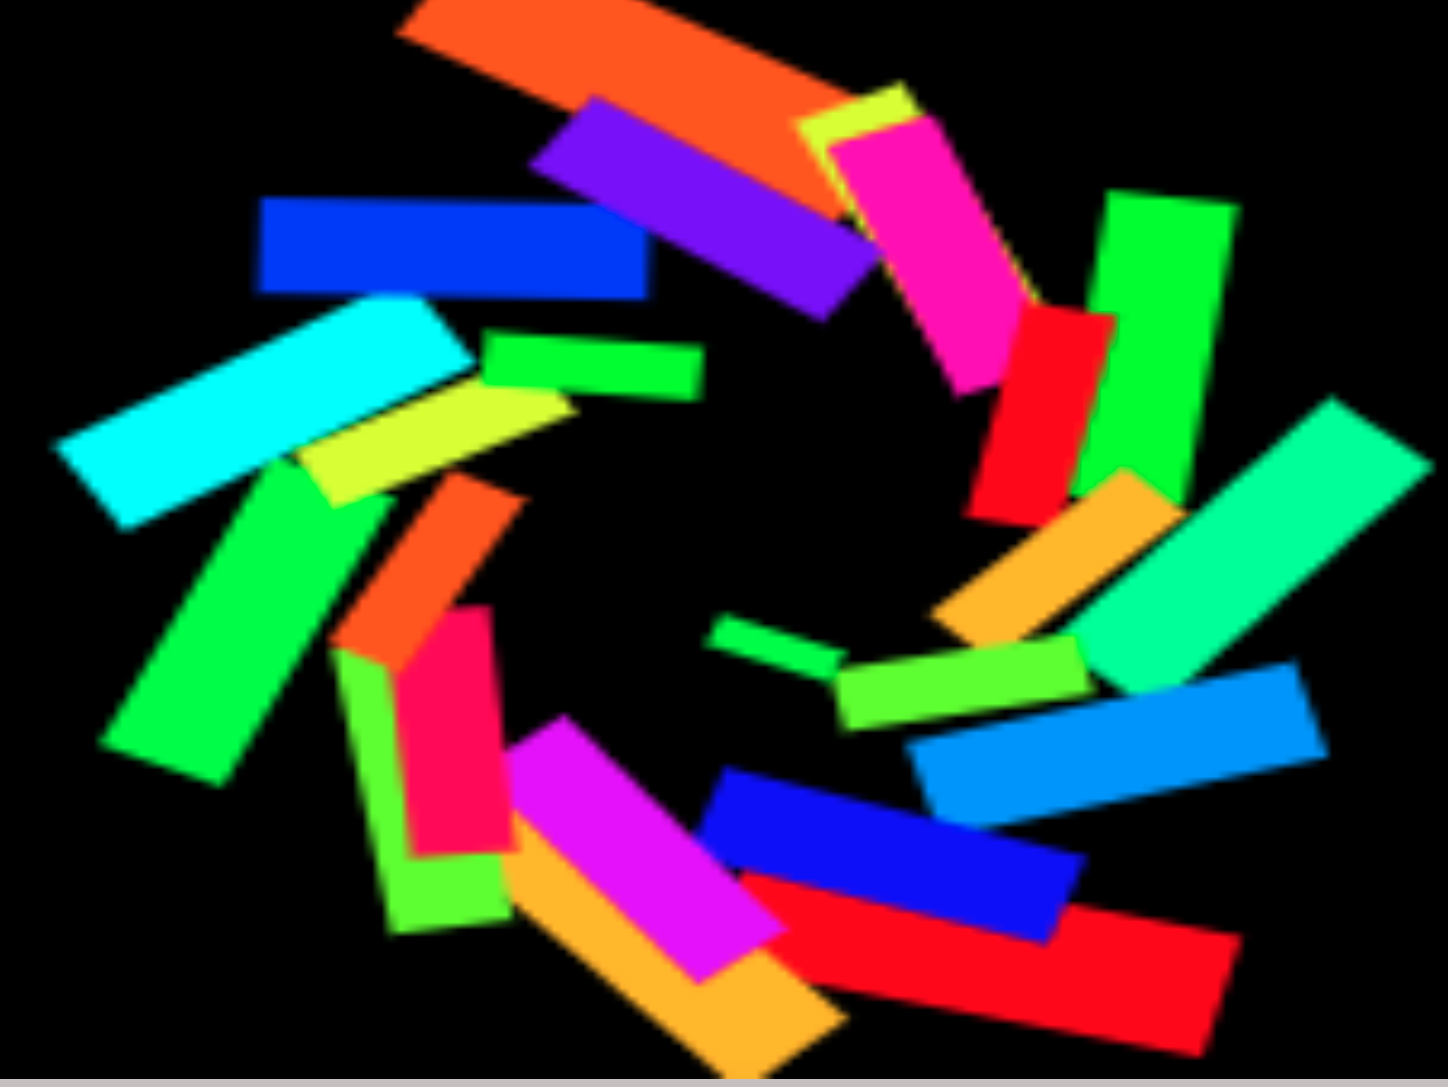
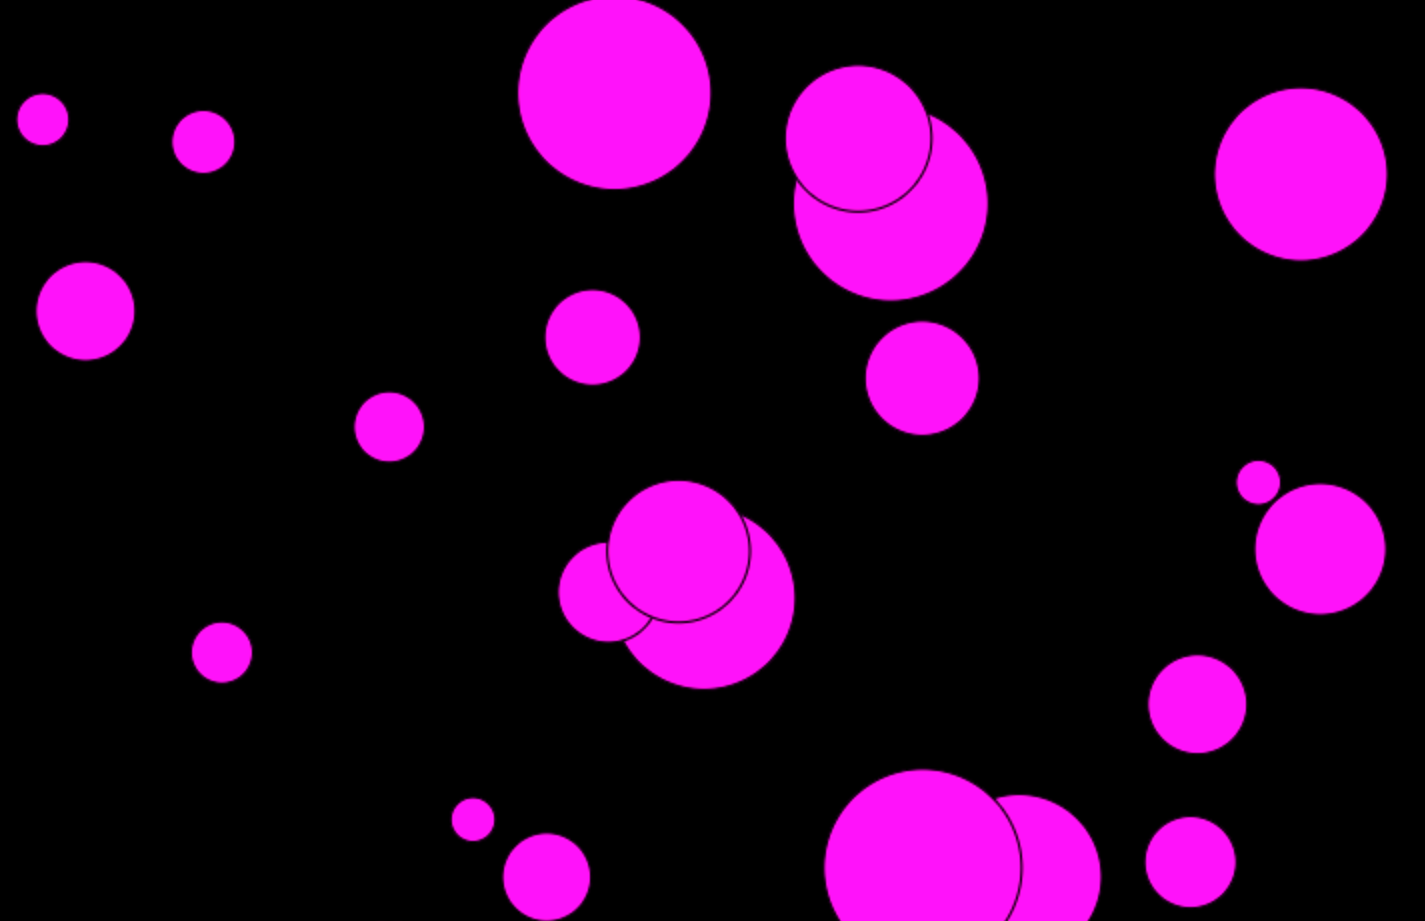
bubble-2

diff --git a/src/coding/bb.js b/src/coding/bb.js
@@ -1,32 +1,66 @@
+// You can personize your tank bubbles by setting the values below
+const settings = {
+  radius: 10,
+  radiusAdd: 40,
+  bubbleNumber: 50,
+  color: 300,
+  velocity: 1,
+}
+// END HERE
+
 const canvas = document.getElementById("cnvs")
 canvas.width = window.innerWidth
 canvas.height = window.innerHeight
-
 const ctx = canvas.getContext("2d")
-ctx.fillStyle = "blue"
+
+ctx.strokeStyle = "black"
 
 class Particle {
   constructor(effect) {
     this.effect = effect
-    this.x = Math.random() * this.effect.width
-    this.y = Math.random() * this.effect.height
-    this.radius = 15
+    this.radius = Math.random() * this.effect.radiusAdd + this.effect.radius
+    this.x = this.radius + Math.random() * (this.effect.width - this.radius * 2)
+    this.y =
+      this.radius + Math.random() * (this.effect.height - this.radius * 2)
+    this.vx = Math.random() * this.effect.velocity
+    this.vy = Math.random() * this.effect.velocity
   }
 
   draw(context) {
+    context.fillStyle = "hsl(" + (this.effect.color % 360) + ",100%,50%)"
+
     context.beginPath()
     context.arc(this.x, this.y, this.radius, 0, Math.PI * 2)
     context.fill()
+    context.stroke()
+  }
+
+  update() {
+    this.x += this.vx
+    if (this.x > this.effect.width - this.radius || this.x < this.radius)
+      this.vx *= -1
+
+    this.y += this.vy
+    if (this.y > this.effect.height - this.radius || this.y < this.radius)
+      this.vy *= -1
   }
 }
 
 class Effect {
-  constructor(canvas) {
+  constructor(canvas, settings) {
     this.canvas = canvas
     this.width = this.canvas.width
     this.height = this.canvas.height
     this.particles = []
-    this.NumberOfParticles = 20
+
+    // settings
+    this.radius = settings.radius
+    this.radiusAdd = settings.radiusAdd
+    this.NumberOfParticles = settings.bubbleNumber
+    this.velocity = settings.velocity
+    this.color = settings.color
+
+    // create particles
     this.createParticles()
   }
   createParticles() {
@@ -37,11 +71,19 @@ class Effect {
   handleParticles(context) {
     this.particles.forEach((particle) => {
       particle.draw(context)
+      particle.update()
     })
   }
 }
 
-const effect = new Effect(canvas)
+const effect = new Effect(canvas, settings)
+// effect.NumberOfParticles = BUBBLE_NUMBER
+// effect.createParticles()
 effect.handleParticles(ctx)
 
-function animate() {}
+function animate() {
+  ctx.clearRect(0, 0, canvas.width, canvas.height)
+  effect.handleParticles(ctx)
+  requestAnimationFrame(animate)
+}
+animate()

diff --git a/src/coding/mv2.js b/src/coding/mv2.js
@@ -1,0 +1,86 @@
+/** settings */
+const NUMBER_OF_SAMPLES = 256
+
+//canvas
+const canvas = document.getElementById("cnvs")
+canvas.width = window.innerWidth
+canvas.height = window.innerHeight
+const ctx = canvas.getContext("2d")
+const fileload = document.getElementById("fileload")
+let audioSource
+let analyser
+
+fileload.addEventListener("change", function () {
+  const audio1 = document.getElementById("audio1")
+  audio1.src = URL.createObjectURL(this.files[0])
+  audio1.load()
+  audio1.play()
+
+  // analyze the music
+  const audioContext = new AudioContext()
+  audioSource = audioContext.createMediaElementSource(audio1)
+  analyser = audioContext.createAnalyser()
+  audioSource.connect(analyser)
+  analyser.connect(audioContext.destination)
+  analyser.fftSize = NUMBER_OF_SAMPLES
+  const bufferLenght = analyser.frequencyBinCount
+  const dataArr = new Uint8Array(bufferLenght)
+
+  const barWidth = canvas.width / bufferLenght / 2
+  let barHeight
+  let x
+
+  function animate() {
+    x = 0
+    ctx.clearRect(0, 0, canvas.width, canvas.height)
+    analyser.getByteFrequencyData(dataArr) // array of values , each represents volume of the frequency
+
+    musicVisualiser(bufferLenght, x, barWidth, barHeight, dataArr) //mv
+
+    requestAnimationFrame(animate)
+  }
+  animate()
+})
+
+// Music Visualiser function
+function musicVisualiser(bufferLenght, x, barWidth, barHeight, dataArr) {
+  for (let i = 0; i < bufferLenght; i++) {
+    barHeight = dataArr[i] * 2
+
+    ctx.save()
+
+    // white block
+    ctx.fillStyle = "white"
+    ctx.fillRect(
+      canvas.width / 2 - x,
+      canvas.height - barHeight - 10,
+      barWidth,
+      10
+    )
+    ctx.fillRect(
+      canvas.width / 2 + x,
+      canvas.height - barHeight - 10,
+      barWidth,
+      10
+    )
+
+    // color bars
+    const hue = (360 * i) / bufferLenght
+    ctx.fillStyle = "hsl(" + hue + ",80%,50%)"
+    ctx.fillRect(
+      canvas.width / 2 - x,
+      canvas.height - barHeight,
+      barWidth,
+      barHeight
+    )
+    ctx.fillRect(
+      canvas.width / 2 + x,
+      canvas.height - barHeight,
+      barWidth,
+      barHeight
+    )
+
+    x += barWidth
+    ctx.restore()
+  }
+}

diff --git a/src/coding/index.html b/src/coding/index.html
@@ -75,11 +75,21 @@
         </div>
         <img src="/src/coding/mv1.png" class="mv-img" />
       </div>
+      <!-- music fountain -->
+      <div class="mv mb-30">
+        <div class="mv-text">
+          <div class="title">music fountain</div>
+          <div class="subtitle mb-30">fountain water spouting with music</div>
+          <p>Look, the flower is dancing with the music.</p>
+          <button type="button" id="btn" onclick="play('mv2')">PLAY</button>
+        </div>
+        <img src="/src/coding/mv2.png" class="mv-img" />
+      </div>
       <!-- music spring -->
       <div class="mv mb-30">
         <div class="mv-text">
           <div class="title">music spring</div>
-          <div class="subtitle mb-30">Springing with music</div>
+          <div class="subtitle mb-30">water springing with music</div>
           <p>See, we can 'see' the music spring like a hot spring!</p>
           <button type="button" id="btn" onclick="play('mv4')">PLAY</button>
         </div>

diff --git a/src/coding/mv2.html b/src/coding/mv2.html
@@ -1,0 +1,21 @@
+<!DOCTYPE html>
+
+<html>
+  <head>
+    <meta charset="utf-8" />
+    <meta http-equiv="X-UA-Compatible" content="IE=edge" />
+    <title></title>
+    <meta name="description" content="" />
+    <meta name="viewport" content="width=device-width, initial-scale=1" />
+    <link rel="stylesheet" href="mv.css" />
+  </head>
+  <body>
+    <div id="container">
+      <canvas id="cnvs"></canvas>
+      <audio id="audio1" controls></audio>
+      <input type="file" id="fileload" />
+    </div>
+
+    <script src="/src/coding/mv2.js" async defer></script>
+  </body>
+</html>
